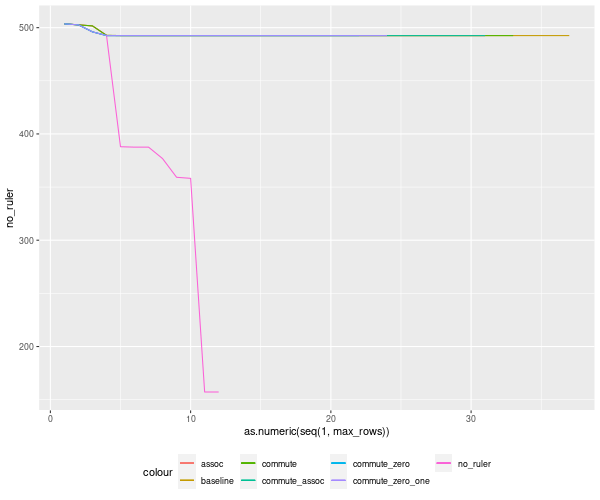
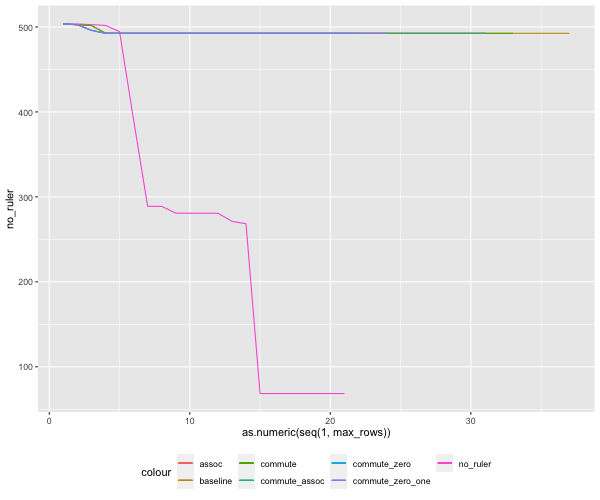
changes

diff --git a/src/dios-egraphs/src/rules.rs b/src/dios-egraphs/src/rules.rs
@@ -189,11 +189,11 @@ pub fn build_litvec_rule() -> Rewrite<VecLang, ()> {
 
 pub fn rules(no_ac: bool, no_vec: bool, ruleset: Option<&str>) -> Vec<Rewrite<VecLang, ()>> {
     let mut rules: Vec<Rewrite<VecLang, ()>> = vec![
-        // rw!("add-0"; "(+ 0 ?a)" => "?a"),
-        // rw!("mul-0"; "(* 0 ?a)" => "0"),
-        // rw!("mul-1"; "(* 1 ?a)" => "?a"),
-        // rw!("add-0-inv"; "?a" => "(+ 0 ?a)"),
-        // rw!("mul-1-inv"; "?a" => "(* 1 ?a)"),
+        rw!("add-0"; "(+ 0 ?a)" => "?a"),
+        rw!("mul-0"; "(* 0 ?a)" => "0"),
+        rw!("mul-1"; "(* 1 ?a)" => "?a"),
+        rw!("add-0-inv"; "?a" => "(+ 0 ?a)"),
+        rw!("mul-1-inv"; "?a" => "(* 1 ?a)"),
         rw!("div-1"; "(/ ?a 1)" => "?a"),
         rw!("div-1-inv"; "?a" => "(/ ?a 1)"),
         rw!("expand-zero-get"; "0" => "(Get 0 0)"),
@@ -220,16 +220,16 @@ pub fn rules(no_ac: bool, no_vec: bool, ruleset: Option<&str>) -> Vec<Rewrite<Ve
     if !no_vec {
         rules.extend(vec![
             // Special MAC fusion rule
-            rw!("vec-mac-add-mul";
-                "(VecAdd ?v0 (VecMul ?v1 ?v2))"
-                => "(VecMAC ?v0 ?v1 ?v2)"),
+            // rw!("vec-mac-add-mul";
+            //     "(VecAdd ?v0 (VecMul ?v1 ?v2))"
+            //     => "(VecMAC ?v0 ?v1 ?v2)"),
             // Custom searchers
             build_unop_rule("neg", "VecNeg"),
             build_unop_rule("sqrt", "VecSqrt"),
             build_unop_rule("sgn", "VecSgn"),
-            build_binop_rule("/", "VecDiv"),
-            build_binop_or_zero_rule("+", "VecAdd"),
-            build_binop_or_zero_rule("*", "VecMul"),
+            // build_binop_rule("/", "VecDiv"),
+            // build_binop_or_zero_rule("+", "VecAdd"),
+            // build_binop_or_zero_rule("*", "VecMul"),
             // build_binop_or_zero_rule("-", "VecMinus"),
             build_mac_rule(),
         ]);
